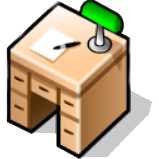
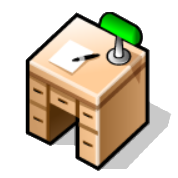
Update design

diff --git a/MegaDesk-3-ColePanike/MegaDesk.Designer.cs b/MegaDesk-3-ColePanike/MegaDesk.Designer.cs
@@ -75,8 +75,8 @@
             // 
             // pictureBox1
             // 
-            this.pictureBox1.Image = global::MegaDesk_3_ColePanike.Properties.Resources.MegaDesk1;
-            this.pictureBox1.Location = new System.Drawing.Point(148, 44);
+            this.pictureBox1.Image = global::MegaDesk_3_ColePanike.Properties.Resources.MegaDesk;
+            this.pictureBox1.Location = new System.Drawing.Point(171, 45);
             this.pictureBox1.Name = "pictureBox1";
             this.pictureBox1.Size = new System.Drawing.Size(126, 115);
             this.pictureBox1.SizeMode = System.Windows.Forms.PictureBoxSizeMode.StretchImage;
@@ -87,7 +87,7 @@
             // 
             this.AutoScaleDimensions = new System.Drawing.SizeF(6F, 13F);
             this.AutoScaleMode = System.Windows.Forms.AutoScaleMode.Font;
-            this.ClientSize = new System.Drawing.Size(286, 201);
+            this.ClientSize = new System.Drawing.Size(309, 201);
             this.Controls.Add(this.pictureBox1);
             this.Controls.Add(this.button4);
             this.Controls.Add(this.button3);

diff --git a/MegaDesk-3-ColePanike/Properties/Resources.Designer.cs b/MegaDesk-3-ColePanike/Properties/Resources.Designer.cs
@@ -69,15 +69,5 @@ namespace MegaDesk_3_ColePanike.Properties {
                 return ((System.Drawing.Bitmap)(obj));
             }
         }
-        
-        /// <summary>
-        ///   Looks up a localized resource of type System.Drawing.Bitmap.
-        /// </summary>
-        internal static System.Drawing.Bitmap MegaDesk1 {
-            get {
-                object obj = ResourceManager.GetObject("MegaDesk1", resourceCulture);
-                return ((System.Drawing.Bitmap)(obj));
-            }
-        }
     }
 }
